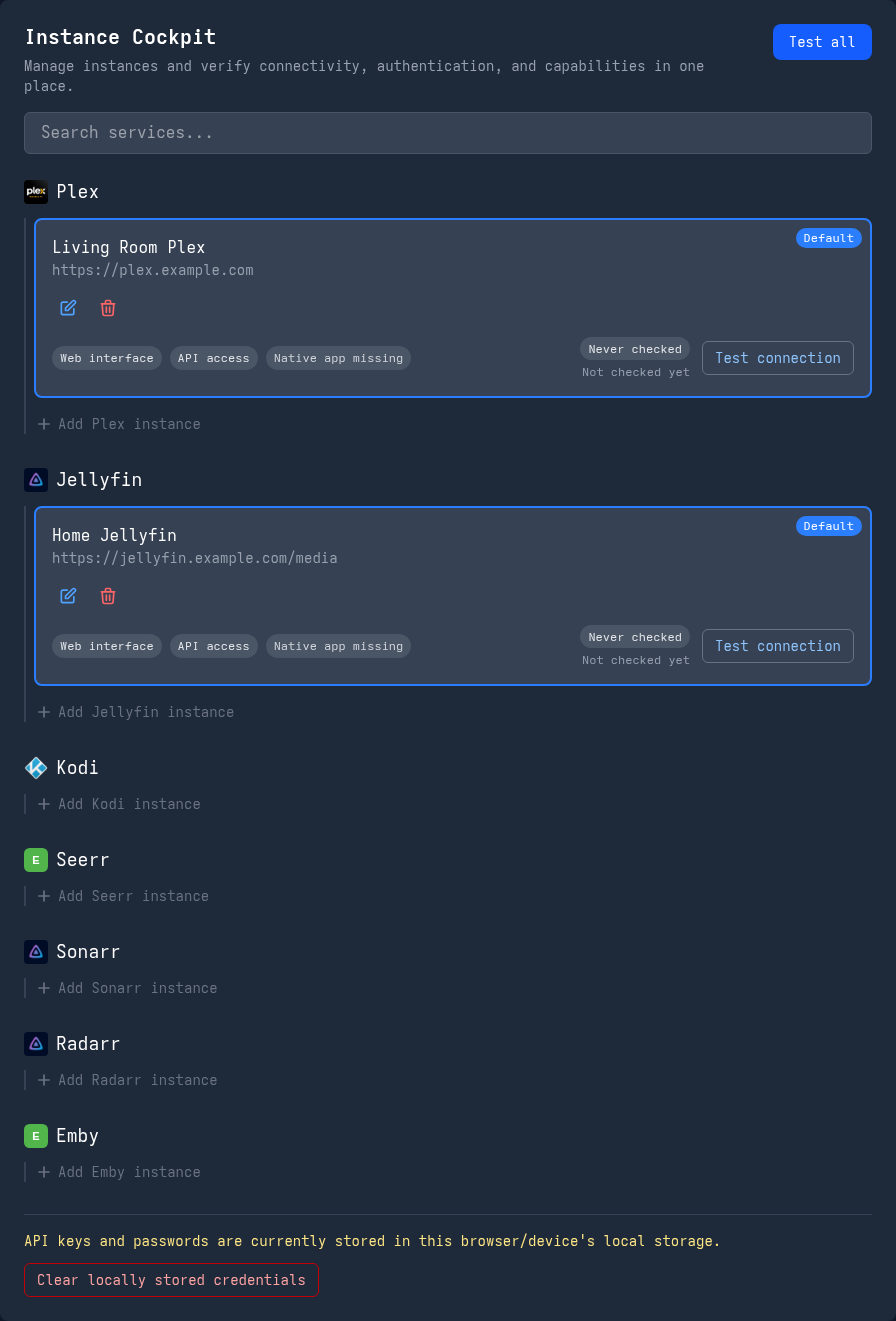
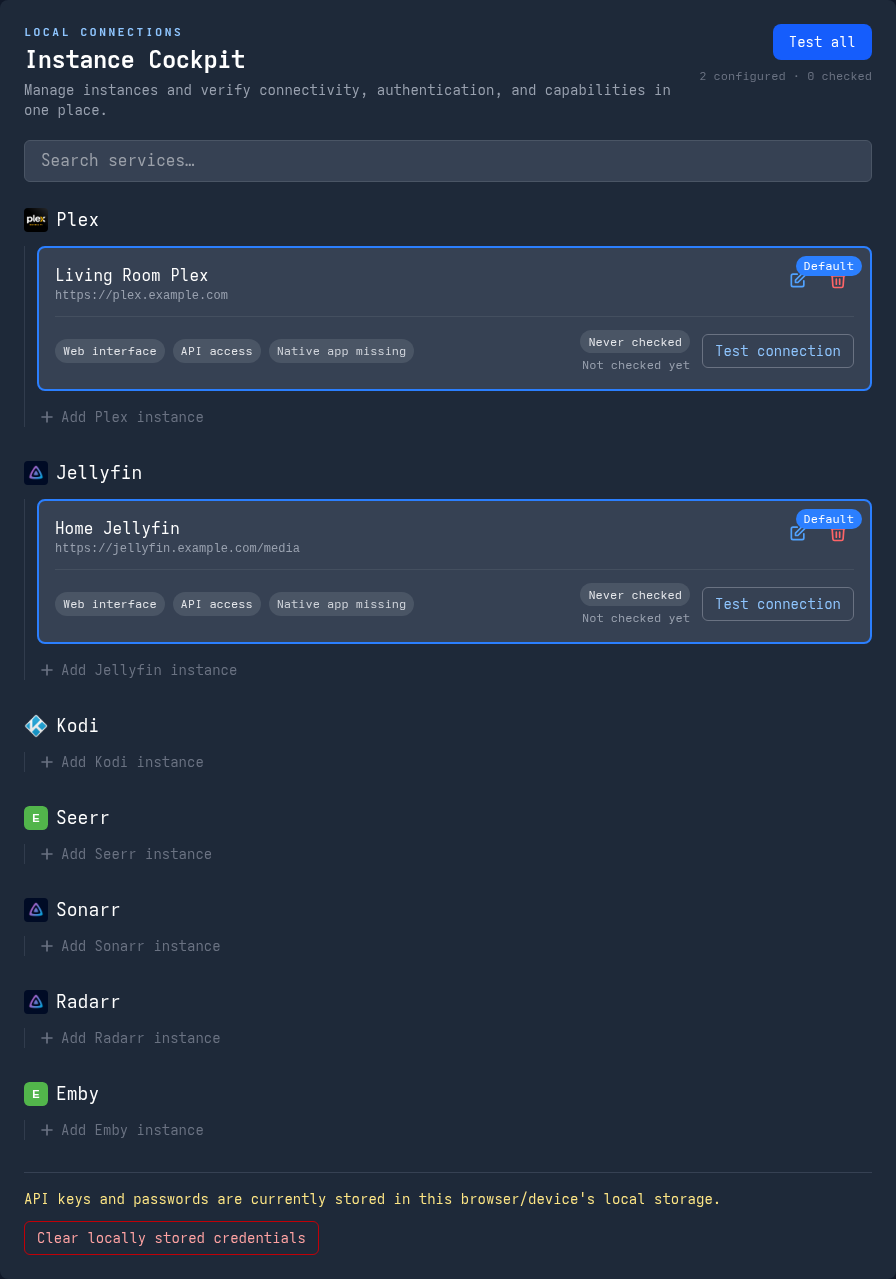
refine: improve instance cockpit UX
Make the unified Settings cockpit easier to scan by adding connection summary context, clearer hierarchy, tighter cards, focus states, and live status updates.

diff --git a/src/views/Settings.vue b/src/views/Settings.vue
@@ -26,22 +26,28 @@
         <h1 class="text-2xl font-bold">Settings</h1>
       </div>
 
-      <section class="bg-gray-800 rounded-lg p-6 mb-6" aria-labelledby="cockpit-title">
-        <div class="flex flex-col gap-3 sm:flex-row sm:items-start sm:justify-between mb-4">
+      <section class="cockpit-panel bg-gray-800 rounded-lg p-6 mb-6" aria-labelledby="cockpit-title">
+        <div class="flex flex-col gap-4 sm:flex-row sm:items-start sm:justify-between mb-5">
           <div>
-            <h2 id="cockpit-title" class="text-xl font-semibold">Instance Cockpit</h2>
-            <p class="mt-1 text-sm text-gray-400">
+            <p class="text-xs font-semibold uppercase tracking-[0.18em] text-blue-300">Local connections</p>
+            <h2 id="cockpit-title" class="mt-1 text-2xl font-semibold tracking-tight">Instance Cockpit</h2>
+            <p class="mt-1 max-w-2xl text-sm text-gray-400">
               Manage instances and verify connectivity, authentication, and capabilities in one place.
             </p>
           </div>
-          <button
-            v-if="cockpitInstances.length"
-            @click="testAllInstances"
-            :disabled="testingAll"
-            class="shrink-0 rounded-lg bg-blue-600 px-4 py-2 text-sm font-medium hover:bg-blue-700 disabled:cursor-not-allowed disabled:opacity-50"
-          >
-            {{ testingAll ? "Testing all…" : "Test all" }}
-          </button>
+          <div class="flex shrink-0 flex-col items-start gap-2 sm:items-end">
+            <button
+              v-if="cockpitInstances.length"
+              @click="testAllInstances"
+              :disabled="testingAll"
+              class="rounded-lg bg-blue-600 px-4 py-2 text-sm font-medium hover:bg-blue-700 focus-visible:outline-none focus-visible:ring-2 focus-visible:ring-blue-300 disabled:cursor-not-allowed disabled:opacity-50"
+            >
+              {{ testingAll ? "Testing all…" : "Test all" }}
+            </button>
+            <p v-if="cockpitInstances.length" class="text-xs text-gray-500">
+              {{ cockpitInstances.length }} configured · {{ checkedInstanceCount }} checked
+            </p>
+          </div>
         </div>
 
         <!-- Search functionality -->
@@ -49,7 +55,7 @@
           <input
             v-model="searchQuery"
             type="text"
-            placeholder="Search services..."
+            placeholder="Search services…"
             class="w-full px-4 py-2 bg-gray-700 border border-gray-600 rounded-md text-white focus:outline-none focus:ring-2 focus:ring-blue-500"
             aria-label="Search services"
           />
@@ -57,9 +63,11 @@
 
         <div v-for="service in filteredServices" :key="service.id" class="mb-8">
           <div class="flex justify-between items-center mb-3">
-            <h3 class="text-lg font-medium flex items-center">
+            <h3 class="text-lg font-medium flex items-center text-wrap">
               <img
                 :src="service.icon"
+                width="24"
+                height="24"
                 class="w-6 h-6 rounded mr-2"
                 :alt="`${service.name} icon`"
               />
@@ -69,7 +77,7 @@
 
           <div
             :id="`service-instances-${service.id}`"
-            class="pl-2 border-l-2 border-gray-700"
+            class="pl-3 border-l border-gray-700/80"
           >
             <div
               v-if="getInstancesForService(service.id).length"
@@ -83,16 +91,17 @@
                 role="listitem"
                 :aria-label="`${instance.name} instance`"
               >
-                <div>
-                  <div class="font-medium">{{ instance.name }}</div>
-                  <div class="text-sm text-gray-400">
+                <div class="flex min-w-0 flex-1 items-start justify-between gap-3">
+                  <div class="min-w-0">
+                    <div class="truncate font-medium">{{ instance.name }}</div>
+                    <div class="break-all font-mono text-xs text-gray-400">
                     {{ normalizedUrl(instance, service.id) }}
+                    </div>
                   </div>
-                </div>
-                <div class="flex space-x-2">
+                  <div class="flex shrink-0 space-x-2">
                   <button
                     @click="editInstance(service, instance)"
-                    class="p-1.5 text-blue-400 hover:text-blue-300 transition-colors"
+                    class="p-1.5 text-blue-400 transition-colors hover:text-blue-300 focus-visible:outline-none focus-visible:ring-2 focus-visible:ring-blue-300"
                     aria-label="Edit instance"
                     :title="`Edit ${instance.name}`"
                   >
@@ -113,7 +122,7 @@
                   </button>
                   <button
                     @click="confirmDeleteInstance(service, instance)"
-                    class="p-1.5 text-red-400 hover:text-red-300 transition-colors"
+                    class="p-1.5 text-red-400 transition-colors hover:text-red-300 focus-visible:outline-none focus-visible:ring-2 focus-visible:ring-red-300"
                     aria-label="Delete instance"
                     :title="`Delete ${instance.name}`"
                   >
@@ -133,14 +142,15 @@
                     </svg>
                   </button>
                 </div>
-                <div class="flex flex-col gap-3 sm:flex-row sm:items-center sm:justify-between">
+                </div>
+                <div class="flex flex-col gap-3 border-t border-gray-600/70 pt-3 sm:flex-row sm:items-center sm:justify-between">
                   <div class="flex flex-wrap gap-2 text-xs">
                     <span v-for="capability in capabilitiesFor(getCockpitEntry(service, instance))" :key="capability" class="rounded-full bg-gray-600 px-2 py-1 text-gray-200">{{ capability }}</span>
                     <span class="rounded-full bg-gray-600 px-2 py-1 text-gray-300">{{ servicesStore.isServiceInstalled(service) ? "Native app installed" : "Native app missing" }}</span>
                   </div>
                   <div class="flex items-center gap-3 sm:justify-end">
                     <div class="text-left sm:text-right">
-                      <span class="rounded-full px-2 py-1 text-xs font-medium" :class="statusClass(statusFor(getCockpitEntry(service, instance)))">
+                      <span class="rounded-full px-2 py-1 text-xs font-medium" role="status" aria-live="polite" :class="statusClass(statusFor(getCockpitEntry(service, instance)))">
                         {{ statusLabel(statusFor(getCockpitEntry(service, instance))) }}
                       </span>
                       <p class="mt-1 text-xs text-gray-400">{{ detailFor(getCockpitEntry(service, instance)) }}</p>
@@ -149,7 +159,7 @@
                     <button
                       @click="testInstance(getCockpitEntry(service, instance))"
                       :disabled="testingIds.has(instance.id)"
-                      class="rounded-md border border-gray-500 px-3 py-1.5 text-sm text-blue-300 hover:border-blue-400 hover:text-blue-200 disabled:cursor-wait disabled:opacity-50"
+                      class="rounded-md border border-gray-500 px-3 py-1.5 text-sm text-blue-300 hover:border-blue-400 hover:text-blue-200 focus-visible:outline-none focus-visible:ring-2 focus-visible:ring-blue-300 disabled:cursor-wait disabled:opacity-50"
                     >
                       {{ testingIds.has(instance.id) ? "Testing…" : healthFor(getCockpitEntry(service, instance)) ? "Test again" : "Test connection" }}
                     </button>
@@ -212,7 +222,7 @@
 
         <div class="mt-6 border-t border-gray-700 pt-4">
           <p class="text-sm text-amber-200">API keys and passwords are currently stored in this browser/device's local storage.</p>
-          <button @click="clearCredentials" class="mt-3 rounded-md border border-red-700 px-3 py-1.5 text-sm text-red-300 hover:bg-red-900/30">Clear locally stored credentials</button>
+          <button @click="clearCredentials" class="mt-3 rounded-md border border-red-700 px-3 py-1.5 text-sm text-red-300 hover:bg-red-900/30 focus-visible:outline-none focus-visible:ring-2 focus-visible:ring-red-300">Clear locally stored credentials</button>
         </div>
       </section>
 
@@ -706,6 +716,8 @@ const getInstancesForService = (serviceId: string) => {
 const cockpitInstances = computed(() => servicesWithCustomInstances.value.flatMap(service =>
   getInstancesForService(service.id).map(instance => ({ service, instance }))
 ));
+
+const checkedInstanceCount = computed(() => cockpitInstances.value.filter(entry => Boolean(healthFor(entry))).length);
 
 function getCockpitEntry(service: Service, instance: CustomServiceInstance) {
   return { service, instance };
